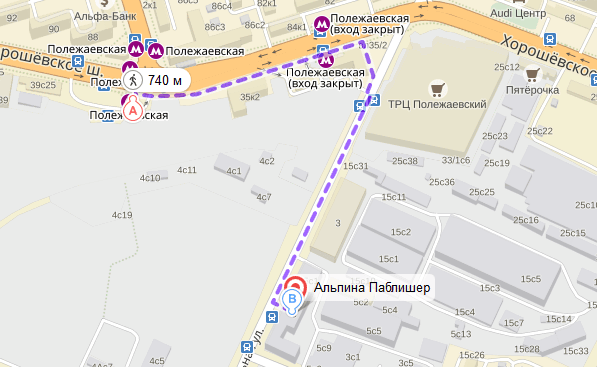
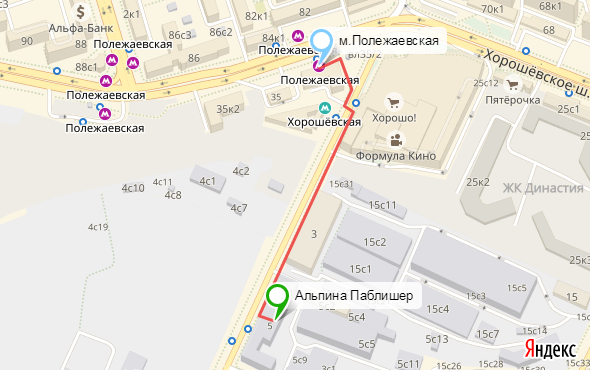
Pickup info update

diff --git a/ajax/info_popup.php b/ajax/info_popup.php
@@ -12,7 +12,7 @@ if ($_REQUEST["info"]) {
 			<iframe src="https://points.boxberry.de/map?reloadmap=true&amp;chgCity=true&amp;calc=0&amp;select_office=0&amp;kd=0&amp;paysum=0&amp;api_token=53RMhNdCWk0LA4gA9ioU8w%3D%3D&amp;custom_city=%D0%9C%D0%BE%D1%81%D0%BA%D0%B2%D0%B0&amp;target_start=68&amp;host=www.alpinabook.ru" style="border: 0px; height: 580px; width: 100%;"></iframe>';
 			break;
 		case 'pickup':
-			$info = '<h6>Самовывоз</h6><hr />Товар будет собран в течение двух часов с момента поступления заказа. <br /><br />Книги можно забрать в офисе интернет-магазина в рабочие дни <b>с 8.00 до 18.00</b>. <br />При заказе до 17 часов товар можно получить в тот же день!<br /><br /><b>Адрес</b>:м.Полежаевская,ул.4-ая Магистральная,д. 5,2 подъезд,2 этаж. <br /><br /><iframe src="https://www.google.com/maps/embed?pb=!1m28!1m12!1m3!1d2243.974588861782!2d37.51781221626531!3d55.776313180559676!2m3!1f0!2f0!3f0!3m2!1i1024!2i768!4f13.1!4m13!3e6!4m5!1s0x46b549754dbcd707%3A0x2ae192d3a5ead8ee!2z0J_QvtC70LXQttCw0LXQstGB0LrQsNGP!3m2!1d55.7770248!2d37.517125!4m5!1s0x46b54975afeed949%3A0x4ec3046ee871bc47!2z0JDQu9GM0L_QuNC90LAg0L_QsNCx0LvQuNGI0LXRgCDQmNC90YLQtdGA0L3QtdGCINC80LDQs9Cw0LfQuNC9LCDQnNC-0YHQutCy0LAsINCz0L7RgNC-0LQg0JzQvtGB0LrQstCw!3m2!1d55.77453!2d37.520494899999996!5e0!3m2!1sen!2sru!4v1490355396292" width="100%" height="350" frameborder="0" style="border:0" allowfullscreen></iframe>';
+			$info = '<h6>Самовывоз</h6><hr />Товар будет собран в течение двух часов с момента поступления заказа. <br /><br />Книги можно забрать в офисе интернет-магазина в рабочие дни <b>с 8.00 до 18.00</b>. <br />При заказе до 17 часов товар можно получить в тот же день!<br /><br /><b>Адрес</b>:м.Полежаевская,ул.4-ая Магистральная,д. 5,2 подъезд,2 этаж. <br /><br /><img src="/img/ymap.png" />';
 			break;
 		case 'box':
 			$info = '<h6>Доставка почтой России</h6><hr /><h6>Сроки доставки</h6><ul><li>от 7 до 28 дней с момента оплаты заказа.</li></ul><h6>Стоимость доставки</h6><ul><li>сумма заказа от&nbsp;0&nbsp;до&nbsp;2&nbsp;000&nbsp;руб. &mdash;&nbsp;149&nbsp;руб;</li><li>сумма заказа от&nbsp;2&nbsp;000&nbsp;руб. &mdash;&nbsp;БЕСПЛАТНО.</li></ul><h6>Дополнительная информация</h6><ul><li>необходимо внести 100% предоплату;</li><li>после поступления оплаты заказ будет передан в распределительный центр Почты России в течение двух рабочих дней. Затем в течение трех рабочих дней отправлению будет присвоен идентификатор, который будет отправлен на указанный вами адрес электронной почты.</li></ul>';

diff --git a/local/php_interface/init.php b/local/php_interface/init.php
@@ -2047,7 +2047,7 @@
 
             $arFields['EMAIL_ADDITIONAL_INFO'] = "<tr><td align=\"left\" style=\"border-collapse: collapse;color:#393939;font-family: 'Open Sans', 'Segoe UI',Roboto,Tahoma,sans-serif;font-size: 16px;font-weight: 400;line-height: 160%;font-style: normal;letter-spacing: normal;padding-top:10px;\" valign=\"top\" colspan=\"2\">";
             $arFields['EMAIL_ADDITIONAL_INFO'] .= "Заказ будет собран в&nbsp;течение двух рабочих часов. Забрать заказ можно по&nbsp;адресу <em>м.Полежаевская, ул.4-ая&nbsp;Магистральная, д.5, 2&nbsp;подъезд, 2&nbsp;этаж.</em> <br />Офис работает по&nbsp;будням с&nbsp;8&nbsp;до&nbsp;18&nbsp;часов.";
-            $arFields['EMAIL_ADDITIONAL_INFO'] .= "<br /><br /><b>Как к нам пройти</b><br /><br />Метро «Полежаевская», первый вагон из центра (в связи с реконструкцией станции выход из последнего вагона закрыт), из вестибюля налево. После выхода на улицу огибаете метро справа и двигаетесь вдоль Хорошевского шоссе. Далее проходите мимо ресторана «Макдоналдс», банков «Альфа-Банк» и «Промсвязь Банк». Переходите на противоположную сторону к ТЦ «Хорошо», поворачиваете направо и двигаетесь по 4-ой Магистральной улице. Проходите магазин «Ларес» и доходите до дома 5 строения 1. Вам нужен «БЦ на Магистральной», второй подъезд, второй этаж.";
+            $arFields['EMAIL_ADDITIONAL_INFO'] .= "<br /><br /><b>Как к нам пройти</b><br /><br />Метро «Полежаевская» (или «Хорошёвская»), последний вагон из центра, из вестибюля направо, выход на улицу налево. После выхода на улицу переходите на противоположную сторону к ТЦ «Хорошо», поворачиваете направо и двигаетесь по 4-ой Магистральной улице. Проходите магазин «Ларес» и доходите до дома 5 строения 1. Вам нужен «БЦ на Магистральной», второй подъезд, второй этаж.";
             $arFields['EMAIL_ADDITIONAL_INFO'] .= "</td></tr>";
 
             $arFields['YANDEX_MAP'] = "<tr><td style=\"border-collapse: collapse;padding-bottom:20px;\"><table align=\"left\" width=\"100%\"><tbody><tr><td align=\"left\" style=\"border-collapse: collapse;color:#393939;font-family: 'Open Sans', 'Segoe UI',Roboto,Tahoma,sans-serif;font-size: 16px;font-weight: 400;line-height: 100%;font-style: normal;letter-spacing: normal;padding-top:10px;\" colspan=\"2\" valign=\"top\"><img src=\"https://www.alpinabook.ru/img/ymap.png\" /></td></tr></tbody></table></td></tr>";
